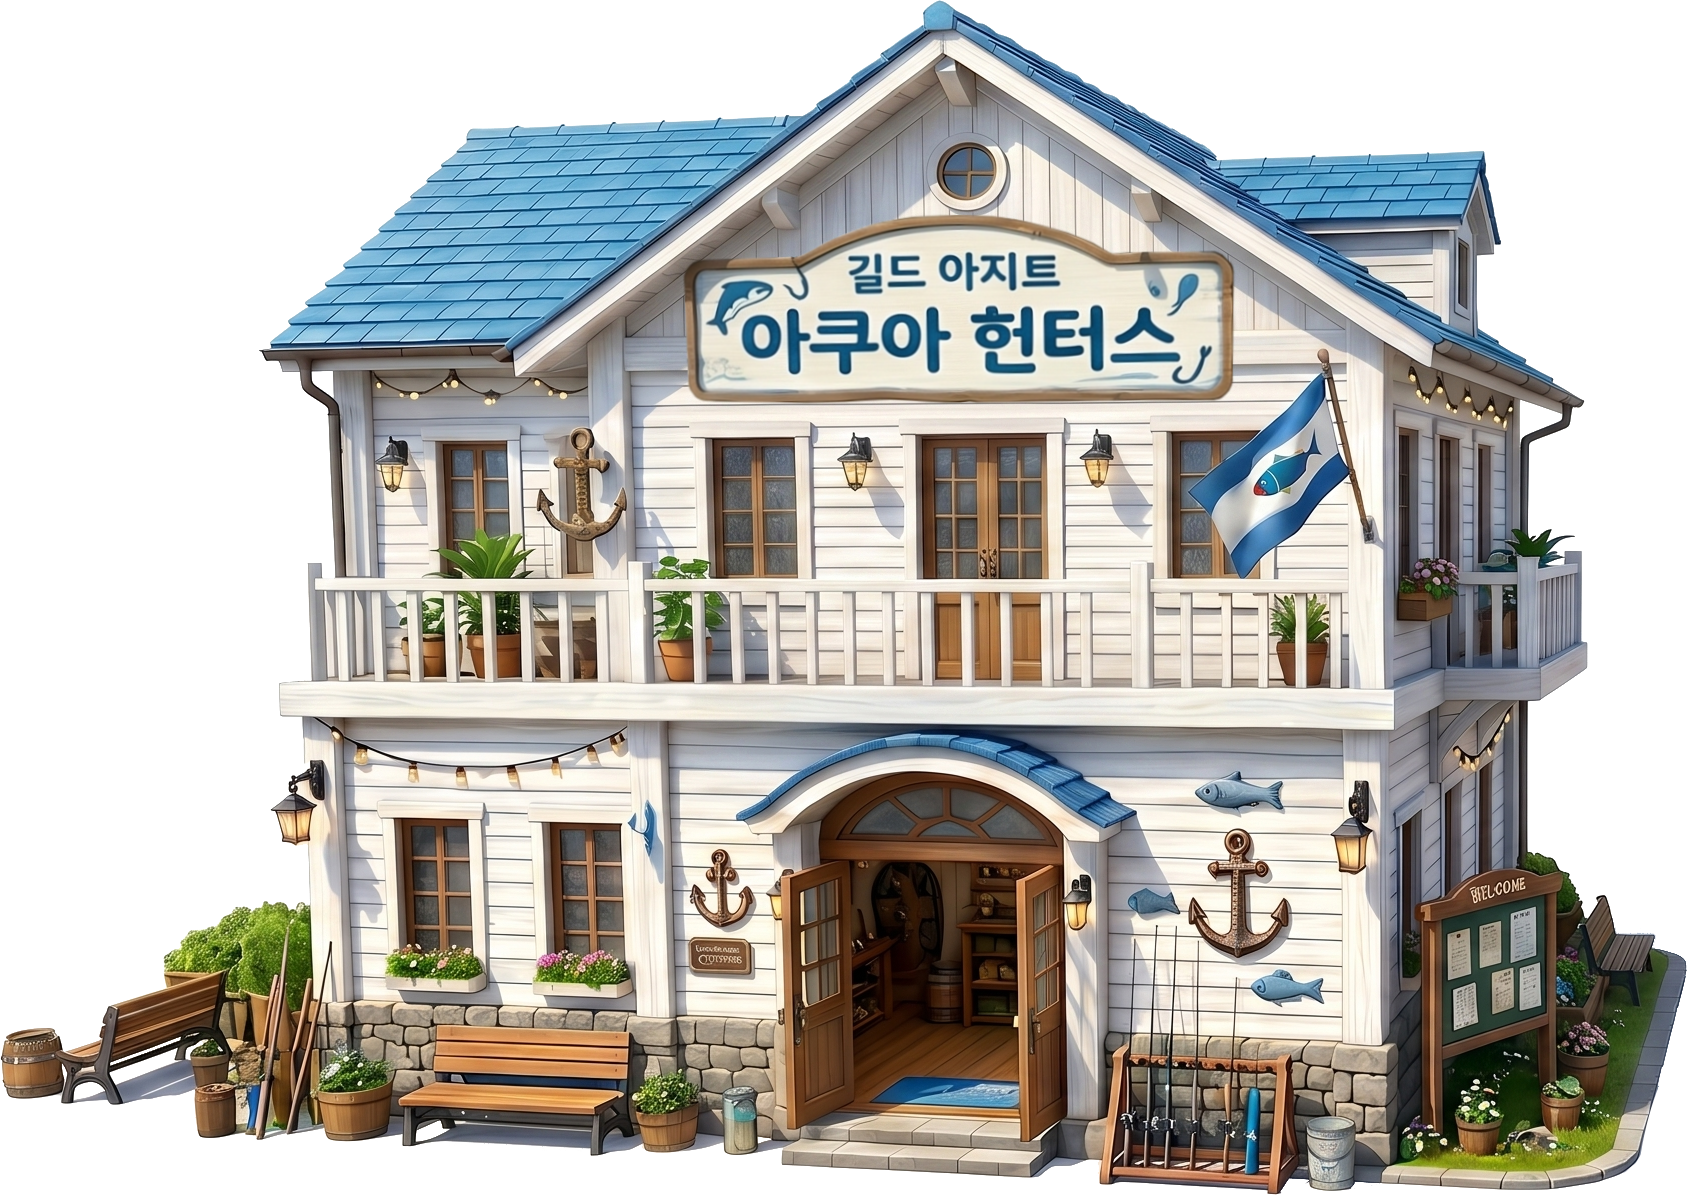
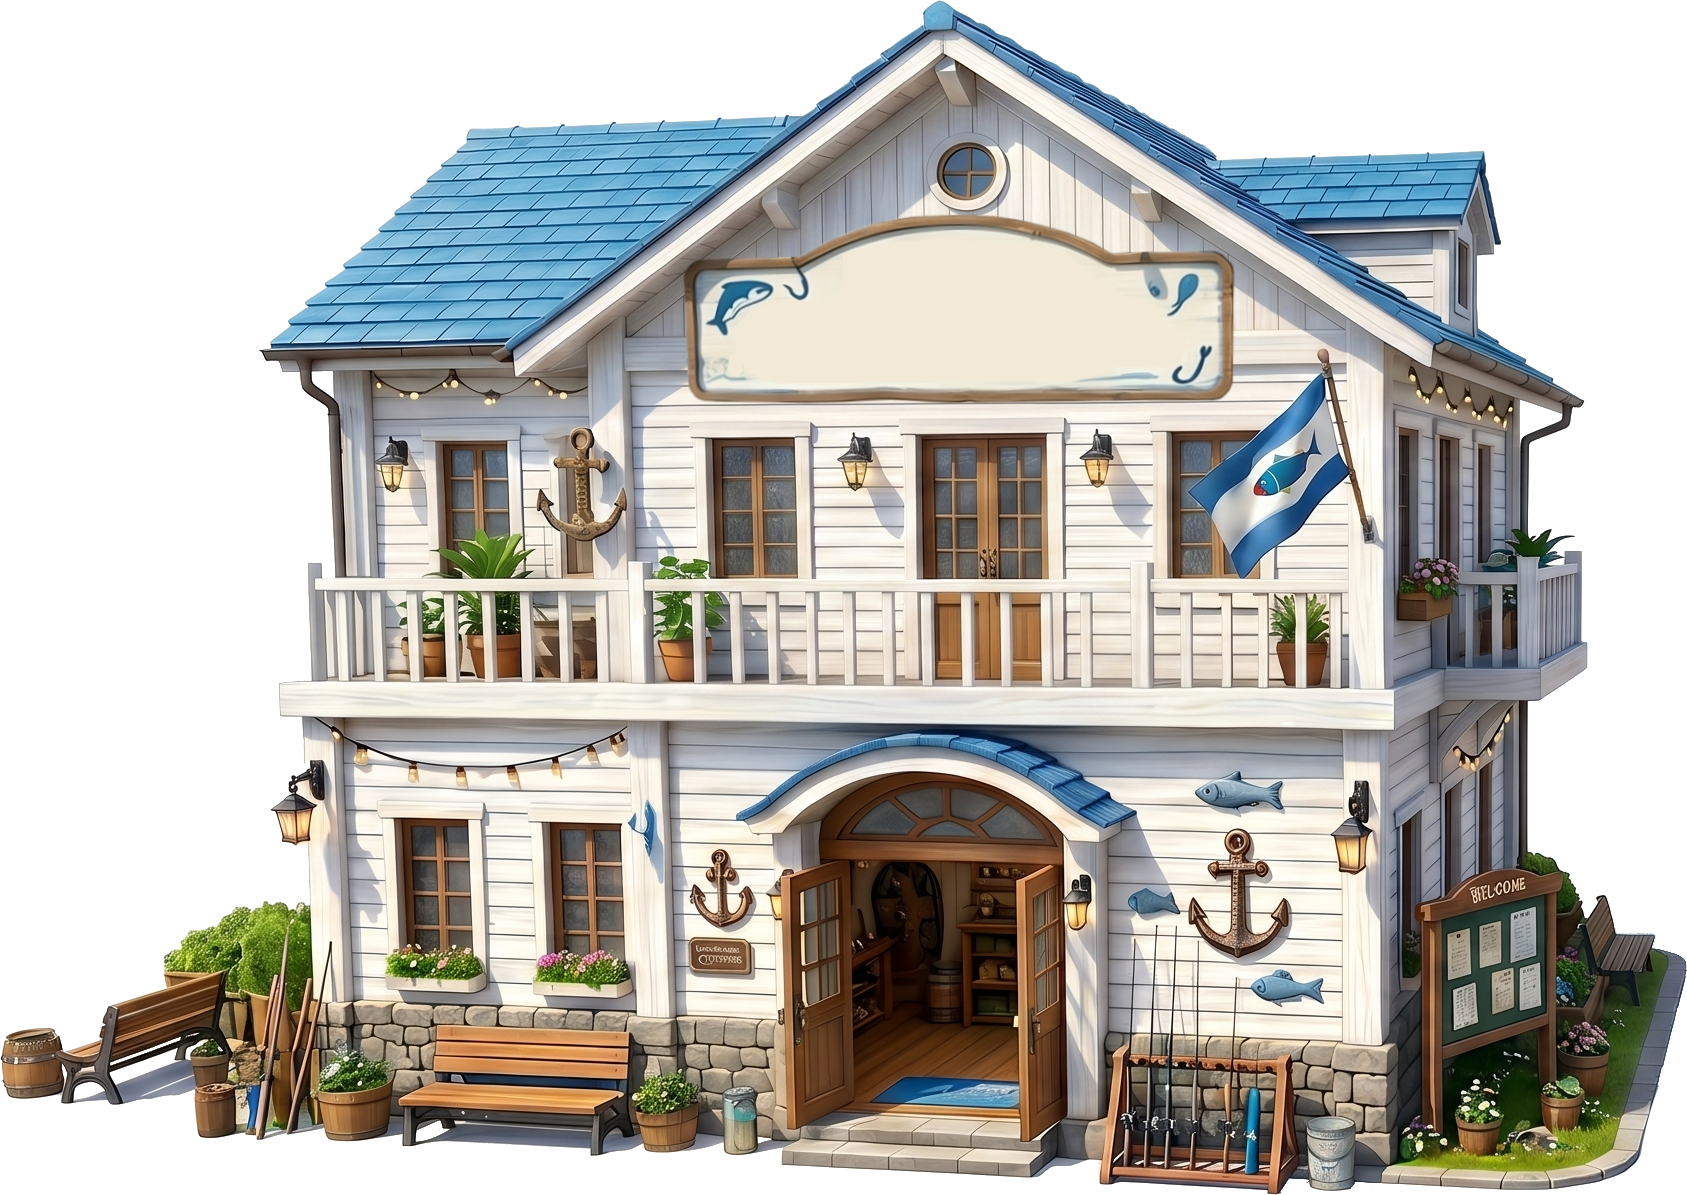
길드홀 건물 간판을 코드로 렌더 — 길드명이 실제로 걸리게
그림에 '길드 아지트 / 아쿠아 헌터스'가 박혀 있어 모든 길드원이 남의 길드 이름을 보고 있었음.
간판을 비운 새 이미지 + 코드 오버레이로 교체.
- 길드원   : 윗줄 작게 '길드홀' / 아랫줄 크게 우리 길드 이름
- 미가입자 : 가운데 한 줄로 '길드홀'
- 긴 길드명은 FittedBox scaleDown으로 나무판 안에 맞춤
- 민물·바다 광장 모두 같은 이미지라 파일 하나로 처리됨
- 빌드 20260701-333

Changed region(s): [[0.4315, 0.1858, 0.709, 0.3406]]

diff --git a/lib/ui_plaza.dart b/lib/ui_plaza.dart
@@ -3044,7 +3044,7 @@ class _PlazaScreenState extends State<PlazaScreen> with SingleTickerProviderStat
                             // 🏞 민물광장 시설 포털
                             sprites.add(MapEntry(0.590, _plazaPortal(worldW, worldH, sizeRef, 0.540, 0.590, kCenterpieceFile, kCenterpieceHFrac)));
                             sprites.add(MapEntry(0.663, _plazaPortal(worldW, worldH, sizeRef, 0.110, 0.663, 'portal_rank_fw.png', 0.42)));
-                            sprites.add(MapEntry(0.405, _plazaPortal(worldW, worldH, sizeRef, 0.290, 0.405, 'house_guild_fw.png', 0.51))); // 🏛 길드 아지트(아쿠아 헌터스) 건물
+                            sprites.add(MapEntry(0.405, _guildHousePortal(worldW, worldH, sizeRef, 0.290, 0.405, 0.51))); // 🏛 길드홀 건물(간판=길드명)
                             sprites.add(MapEntry(0.256, _plazaPortal(worldW, worldH, sizeRef, 0.507, 0.256, 'portal_fishing_fw.png', 0.40)));
                             sprites.add(MapEntry(0.390, _plazaPortal(worldW, worldH, sizeRef, 0.760, 0.390, 'portal_arena_fw.png', 0.42)));
                             sprites.add(MapEntry(0.55, _plazaPortal(worldW, worldH, sizeRef, 0.910, 0.680, 'portal_shop_fw.png', 0.48))); // 깊이키=건물 앞바닥(렌더는 0.680), 앞 캐릭터 안 가리게
@@ -3060,7 +3060,7 @@ class _PlazaScreenState extends State<PlazaScreen> with SingleTickerProviderStat
                             // 🌊 바다광장 시설 포털 (민물 포털 재활용, 좌표만 바다용 — 좌표모드로 미세조정 예정 · 추정값)
                             sprites.add(MapEntry(0.483, _plazaPortal(worldW, worldH, sizeRef, 0.533, 0.483, kCenterpieceFile, kCenterpieceHFrac)));
                             sprites.add(MapEntry(0.910, _plazaPortal(worldW, worldH, sizeRef, 0.287, 0.910, 'portal_rank_fw.png', 0.42)));
-                            sprites.add(MapEntry(0.500, _plazaPortal(worldW, worldH, sizeRef, 0.140, 0.500, 'house_guild_fw.png', 0.48))); // 🏛 길드 아지트 건물(바다)
+                            sprites.add(MapEntry(0.500, _guildHousePortal(worldW, worldH, sizeRef, 0.140, 0.500, 0.48))); // 🏛 길드홀 건물(바다)
                             sprites.add(MapEntry(0.330, _plazaPortal(worldW, worldH, sizeRef, 0.350, 0.330, 'portal_fishing_fw.png', 0.40)));
                             sprites.add(MapEntry(0.310, _plazaPortal(worldW, worldH, sizeRef, 0.640, 0.310, 'portal_arena_fw.png', 0.42)));
                             sprites.add(MapEntry(0.52, _plazaPortal(worldW, worldH, sizeRef, 0.900, 0.650, 'portal_shop_fw.png', 0.48))); // 렌더 0.650(여백보정), 깊이키 0.52
@@ -4006,6 +4006,66 @@ class _PlazaScreenState extends State<PlazaScreen> with SingleTickerProviderStat
   }
 
   // 🏞 시설 포털(배경 위 장식) — 바닥 중앙을 (cx,cy) 발높이에 맞춰 세움. 캐릭터/NPC보다 뒤에 그려짐.
+  // 🏛 길드홀 건물 — 간판 글자를 코드로 얹는다.
+  //    그림(house_guild_fw.png)의 간판은 '비워둔' 상태여야 한다. 예전엔 "길드 아지트 / 아쿠아 헌터스"가
+  //    그림에 박혀 있어서, 어느 길드원이 봐도 남의 길드 이름이 걸려 있었다(2026-08-30 개선).
+  //    · 길드원   → 윗줄 작게 "길드홀" / 아랫줄 크게 우리 길드 이름
+  //    · 미가입자 → 가운데 한 줄로 "길드홀"
+  //    간판 안쪽 좌표는 원본 1687x1195에서 실측한 비율.
+  Widget _guildHousePortal(double worldW, double worldH, double sizeRef,
+      double cx, double cy, double hFrac) {
+    final double h = sizeRef * hFrac;
+    const double kAspect = 1687 / 1195;      // 건물 그림 가로세로비
+    final double w = h * kAspect;
+    final bool hasGuild = _guildName.isNotEmpty;
+
+    // 간판 글씨 공통 스타일(원래 그려져 있던 남색 계열 + 옅은 흰 그림자로 나무판에서 뜨게)
+    TextStyle signStyle(double size) => TextStyle(
+          color: const Color(0xFF15486E),
+          fontSize: size,
+          fontWeight: FontWeight.w900,
+          letterSpacing: -0.5,
+          shadows: const [Shadow(color: Color(0x55FFFFFF), offset: Offset(0, 1.2), blurRadius: 1.5)],
+        );
+
+    // 간판 영역 안에 한 줄 앉히기 — 긴 길드명은 scaleDown이 알아서 줄인다.
+    Widget line(String text, double top, double height, double fontSize) => Positioned(
+          left: w * 0.440, top: h * top, width: w * 0.260, height: h * height,
+          child: Center(
+            child: FittedBox(
+              fit: BoxFit.scaleDown,
+              child: Text(text, maxLines: 1, style: signStyle(h * fontSize)),
+            ),
+          ),
+        );
+
+    return Positioned(
+      left: cx * worldW,
+      top: cy * worldH,
+      child: IgnorePointer(
+        child: FractionalTranslation(
+          translation: const Offset(-0.5, -1.0), // 바닥 중앙 앵커(다른 포털과 동일)
+          child: SizedBox(
+            width: w,
+            height: h,
+            child: Stack(children: [
+              Positioned.fill(
+                child: Image.asset('assets/plaza/house_guild_fw.png',
+                    fit: BoxFit.contain,
+                    errorBuilder: (a, b, c) => const SizedBox.shrink()),
+              ),
+              if (hasGuild) ...[
+                line('길드홀', 0.202, 0.040, 0.036),   // 윗줄 작게
+                line(_guildName, 0.245, 0.075, 0.072), // 아랫줄 크게
+              ] else
+                line('길드홀', 0.215, 0.095, 0.090),   // 미가입자: 가운데 한 줄
+            ]),
+          ),
+        ),
+      ),
+    );
+  }
+
   Widget _plazaPortal(double worldW, double worldH, double sizeRef, double cx, double cy, String file, double hFrac, {bool flip = false}) {
     return Positioned(
       left: cx * worldW,

diff --git a/lib/app_version.dart b/lib/app_version.dart
@@ -14,7 +14,7 @@ import 'dart:js_util' as js_util;
 import 'package:flutter/material.dart';
 
 /// ⚠ 배포마다 올리는 빌드 식별자 (web/appver.json 과 같은 값으로 유지)
-const String kBuildId = '20260701-332';
+const String kBuildId = '20260701-333';
 
 bool _updateChecked = false;
 
